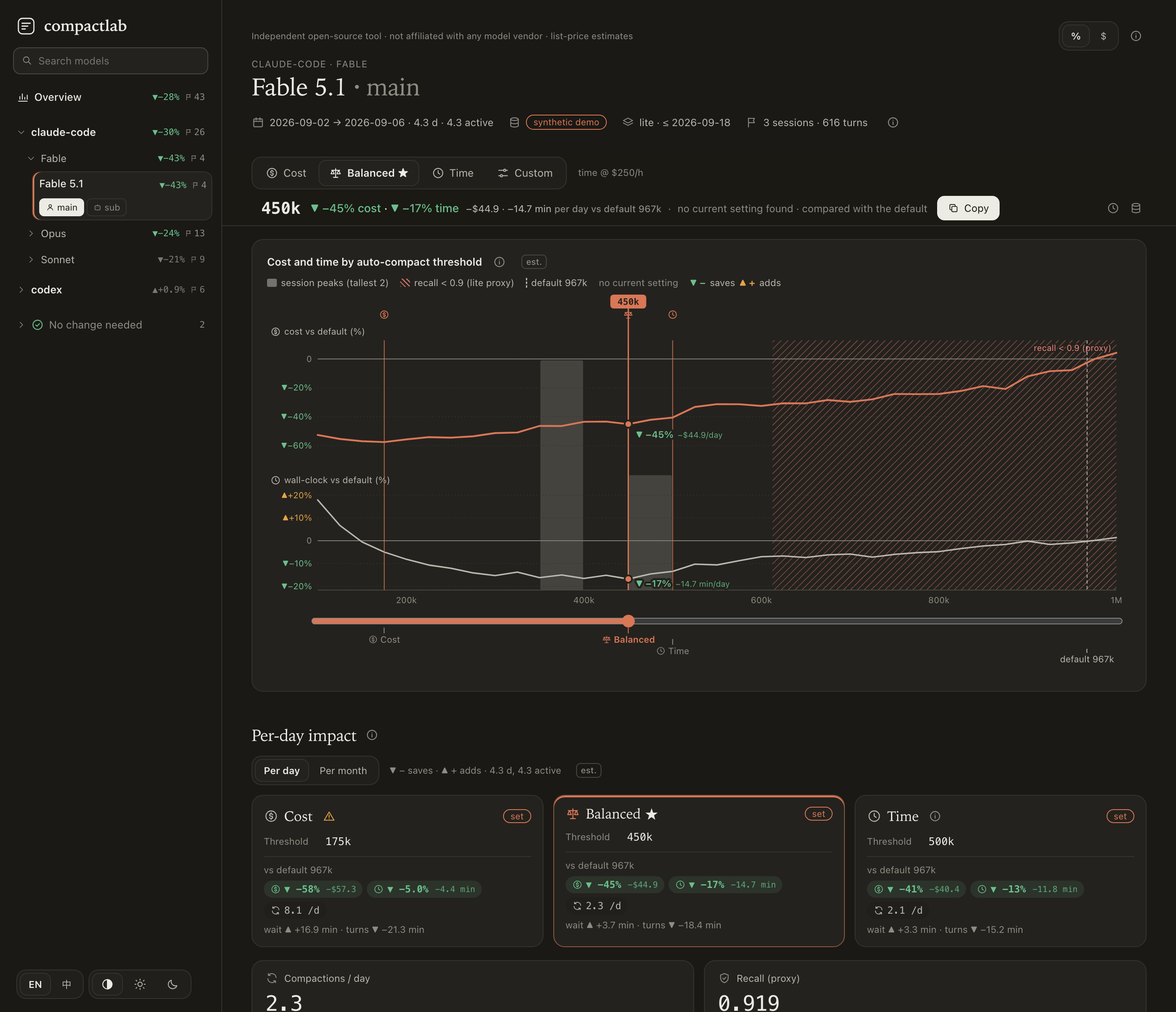
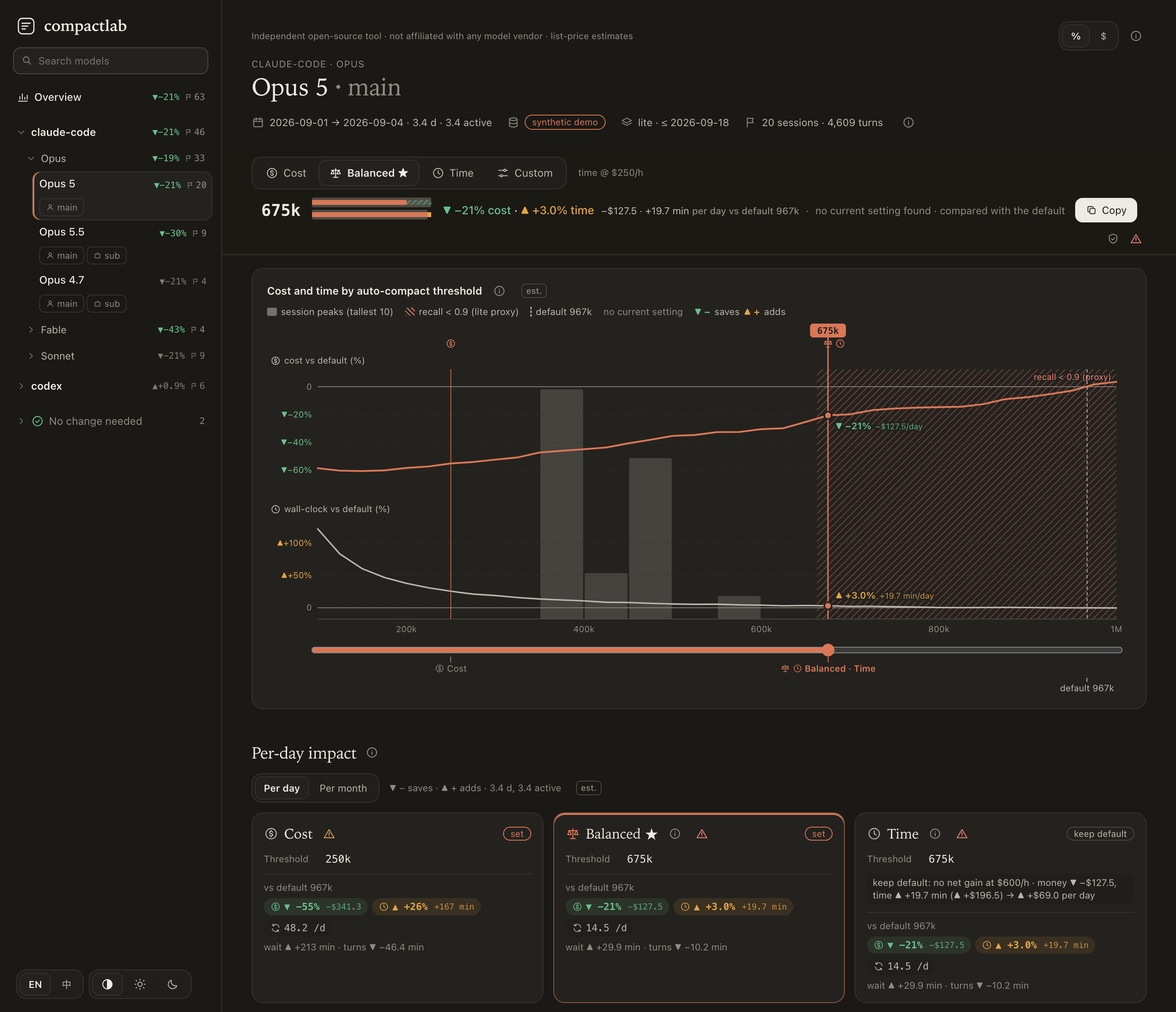
Overview: before / after per model instead of saving-only bars
Grey bar = the default's cost (or wall-clock) per day, accent bar overlaid = with the profile's "set" groups,
green hatch with a bracket = saved, amber overshoot = added; keep-default rows show only the original. Labels lead
with % or $ per the unit toggle plus 'was → now'. Total row from summed amounts, absolute | each-row-100% and sort
toggles (remembered), leaders for short bars, wait vs turn split in the time tooltip, screen-reader sentences.
The model page gets a compact before/after pair next to the answer line. Showcase gains a dominant synthetic model.

diff --git a/src/compactlab/report/template.html b/src/compactlab/report/template.html
@@ -9,14 +9,14 @@
  --serif:ui-serif,"New York","Iowan Old Style","Charter","Palatino Linotype",Georgia,"Songti SC","Noto Serif CJK SC",serif;
  --sans:-apple-system,BlinkMacSystemFont,"SF Pro Text","Segoe UI",system-ui,"PingFang SC","Hiragino Sans GB",sans-serif;
  --mono:ui-monospace,"SF Mono",SFMono-Regular,Menlo,Consolas,monospace;
- --r:14px;--rs:10px;--pk:.07;--ht:.32;--mp:.45
+ --r:14px;--rs:10px;--pk:.07;--ht:.32;--mp:.45;--ba-was:#d9d5ca
 }
 @media (prefers-color-scheme:dark){:root:not([data-theme=light]){
  --bg:#1a1915;--bg2:#211f1b;--card:#24221e;--ink:#ecebe4;--ink2:#bab7ad;--ink3:#8f8c83;--line:#35332d;--line2:#4a4740;
- --acc:#d97757;--acc-soft:#d9775722;--good:#6cc08e;--good-soft:#6cc08e1c;--amber:#e3a548;--amber-soft:#e3a5481c;--bad:#f2867a;--bad-soft:#f2867a1c;--pk:.16;--ht:.6;--mp:.8}}
+ --acc:#d97757;--acc-soft:#d9775722;--good:#6cc08e;--good-soft:#6cc08e1c;--amber:#e3a548;--amber-soft:#e3a5481c;--bad:#f2867a;--bad-soft:#f2867a1c;--pk:.16;--ht:.6;--mp:.8;--ba-was:#4d4a43}}
 :root[data-theme=dark]{
  --bg:#1a1915;--bg2:#211f1b;--card:#24221e;--ink:#ecebe4;--ink2:#bab7ad;--ink3:#8f8c83;--line:#35332d;--line2:#4a4740;
- --acc:#d97757;--acc-soft:#d9775722;--good:#6cc08e;--good-soft:#6cc08e1c;--amber:#e3a548;--amber-soft:#e3a5481c;--bad:#f2867a;--bad-soft:#f2867a1c;--pk:.16;--ht:.6;--mp:.8}
+ --acc:#d97757;--acc-soft:#d9775722;--good:#6cc08e;--good-soft:#6cc08e1c;--amber:#e3a548;--amber-soft:#e3a5481c;--bad:#f2867a;--bad-soft:#f2867a1c;--pk:.16;--ht:.6;--mp:.8;--ba-was:#4d4a43}
 *{box-sizing:border-box}
 html{background:var(--bg)}
 body{margin:0;background:var(--bg);color:var(--ink);font:14px/1.5 var(--sans);-webkit-font-smoothing:antialiased;text-rendering:optimizeLegibility}
@@ -170,6 +170,16 @@ svg.mainc{touch-action:pan-y;user-select:none;-webkit-user-select:none}
 .kpi .v .nw{white-space:nowrap}.kpi .v .sc{display:block;font:500 12.5px/1.4 var(--mono);margin:2px 0 0;opacity:.85}#ovw .kpi .v{font-size:23px}
 .hrow{display:flex;align-items:center;gap:8px;flex-wrap:wrap;margin-bottom:8px}.hrow .indep{margin:0 auto 0 0}
 .ld{font-weight:600}.sc{font-size:.85em;opacity:.8;margin-left:5px;font-weight:400}.chip .sc{margin-left:4px}tspan.sc2{font-weight:400;font-size:10px;opacity:.85}
+.ovctl{display:flex;flex-wrap:wrap;gap:8px 14px;align-items:center;margin-bottom:8px}.ovctl .seg button{font-size:12.5px;padding:3px 10px}
+.olg{display:flex;flex-wrap:wrap;gap:4px 14px;font-size:11.5px;color:var(--ink2);margin:0 0 4px}.olg span{display:inline-flex;align-items:center;gap:5px}
+.olg i{display:inline-block;width:16px;height:9px;border-radius:2px}.olg .lw{background:var(--ba-was)}.olg .ln{background:var(--acc)}
+.olg .ls{background:repeating-linear-gradient(45deg,var(--good) 0 1.4px,var(--good-soft) 1.4px 4px)}.olg .la{background:var(--amber)}
+h3.ovh{margin:14px 0 2px;color:var(--ink2);font-weight:500}
+.baw{fill:var(--ba-was)}.ban{fill:var(--acc)}.baa{fill:var(--amber)}.bash{fill:var(--good-soft)}.bahl{stroke:var(--good);stroke-width:1.4}
+.babr{fill:none;stroke:var(--good);stroke-width:1}.lead{stroke:var(--line2);stroke-dasharray:1 3}.axt{font-size:10px}
+tspan.big{font-size:13px;font-weight:700}.barow{cursor:pointer}.barow:hover .ovbg{fill:var(--bg2)}.barow.tot .ovname{font-weight:600}.barow.keep .ovname{fill:var(--ink3)}
+.sr{position:absolute;width:1px;height:1px;overflow:hidden;clip:rect(0 0 0 0);white-space:nowrap}
+.minib{display:inline-flex;align-items:center;cursor:help}.mini{display:block}
 .indep{font-size:11px;color:var(--ink3);margin-bottom:8px}
 #marks.compact .mk.r1 .tx{display:none}
 .live{display:inline-flex;align-items:center;gap:6px;flex-wrap:wrap}.live .tval{min-width:0;font-size:18px}
@@ -457,7 +467,16 @@ const I={
  noopSub:['Every session peaks below the default auto-compact threshold, so no threshold in range changes cost or time.','每个会话的峰值都低于默认自动压缩阈值,范围内的任何阈值都不会改变成本或时间。'],
  mPeak:['peak','峰值'], zoneL:['auto-compacts here','此区间会自动压缩'],
  kTotUsd:['Δ cost vs default','较默认费用'], kTotMin:['Δ time vs default','较默认耗时'], kToSet:['To change','需要调整'], kNoCh:['No change needed','无需调整'],
- ovChart:['Per-day impact by model','各模型每日影响'], ovHelp:['Estimated money per day against the harness default for the chosen profile if the “set” groups are applied, split into main and subagent runs; right of each bar the minutes per day. Grey rows would keep the default (not counted in the totals). Click a row to open the model.','所选方案相对 harness 默认值的每天费用估算,分为主会话和子 agent;每条右侧是每天分钟数。点击一行打开该模型。'],
+ ovChart:['Before and after, per day','前后对比(每天)'],
+ ovCostT:['Cost per day (list price)','每日费用(按公开标价)'], ovTimeT:['Wall-clock per day (agent minutes)','每日耗时(agent 分钟)'],
+ scL:['Scale','比例'], scAbs:['absolute','绝对值'], scNorm:['each row = 100%','每行 = 100%'], byL:['Sort','排序'], byUsd:['by amount saved','按节省金额'], byPct:['by % saved','按节省比例'],
+ axUsd:['$ per day, shared axis','美元/天,共用坐标'], axMin:['minutes per day, shared axis','分钟/天,共用坐标'], axNorm:['share of the original, each row = 100%','占原值比例,每行 = 100%'],
+ lgWas:['was (default)','原来(默认)'], lgNow:['now (profile)','现在(方案)'], lgSaved:['saved','节省'], lgAdded:['added','增加'],
+ lgLine:['grey = was (default), accent = now, green hatch = saved, amber = added','灰色 = 原来(默认),强调色 = 现在,绿色斜线 = 节省,琥珀色 = 增加'],
+ wasNow:[(a,b)=>'was '+a+' → now '+b,(a,b)=>'原来 '+a+' → 现在 '+b], totalSet:['Total','合计'], totalSub:[n=>n+' “set” models',n=>n+' 个“设置”模型'],
+ tWait:['compaction wait','压缩等待'], tTurn:['turn time','每轮耗时'],
+ srRow:[(n,w,c,v,p,tw,tn)=>n+': was '+w+' per day, now '+c+', '+v+' '+p+' percent; wall-clock was '+tw+', now '+tn,(n,w,c,v,p,tw,tn)=>n+':原来每天 '+w+',现在 '+c+','+v+' '+p+'%;耗时原来 '+tw+',现在 '+tn],
+ srKeep:[(n,w)=>n+': keep default, '+w+' per day',(n,w)=>n+':保持默认,每天 '+w], ovHelp:['Per model: the grey bar is the cost (or wall-clock) per day with the harness default, the accent bar the same with the chosen profile applied to its “set” groups; the green hatch between them is the saving, amber an addition. “Keep default” models show only the grey bar. The total sums the “set” models. Absolute shares one axis; “each row = 100%” makes every grey bar the same length. List-price estimates; hover a row for main / subagent and, for time, wait vs turn time.','所选方案相对 harness 默认值的每天费用估算,分为主会话和子 agent;每条右侧是每天分钟数。点击一行打开该模型。'],
  ovTable:['Recommended settings','推荐设置'], cModel:['model','模型'], cRole:['role','角色'], cDef:['default','默认'], cUsd:['Δ $ / day','Δ 美元 / 天'], cMin:['Δ min / day','Δ 分钟 / 天'], cUsdP:['Δ cost %','Δ 费用 %'], cMinP:['Δ time %','Δ 耗时 %'], sortBy:['Sort by','排序:'],
  kTotPct:['% of the whole: the summed change of the “set” groups divided by the summed default cost (or wall-clock) per day of all groups in this history; group percents are never averaged.','占全部的百分比:“设置”分组的变化之和,除以本段历史中所有分组默认每日费用(或耗时)之和;不对分组百分比取平均。'],
  tWin:['Window cost (total)','窗口总成本'], tDUsd:['Δ cost vs default','较默认费用'], tDMin:['Δ time vs default','较默认耗时'],
@@ -479,7 +498,7 @@ const I={
  hSessG:[x=>'Sessions · '+x,x=>'会话 · '+x], hSessAll:['All sessions','全部会话'],
  ovRange:[(a,b,n)=>a+' → '+b+' · '+n+' models',(a,b,n)=>a+' → '+b+' · '+n+' 个模型']
 };
-const S={gi:0,gear:'balanced',T:null,vot:100,lang:'en',sid:null,basis:'per_day',theme:'auto',view:'group',op:'balanced',fold:{},unit:'pct',ovSort:null};
+const S={gi:0,gear:'balanced',T:null,vot:100,lang:'en',sid:null,basis:'per_day',theme:'auto',view:'group',op:'balanced',fold:{},unit:'pct',ovSort:null,ovScale:'abs',ovBy:'usd'};
 let sortK='peak',asc=false;
 const PROF=['cost','balanced','time'],PICON={cost:'coin',balanced:'scale',time:'clock',custom:'sliders'};
 // a broken guardrail is red, a warning amber (cost below a quarter of the window, more wait than the cap),
@@ -490,6 +509,7 @@ const flagKind=f=>VIOL(f)?'bad':NOTE(f)?'':'low';
 S.lang=/^zh/i.test(navigator.language||'')?'zh':'en';
 try{const l=localStorage.getItem('compactlab.lang');if(l==='en'||l==='zh')S.lang=l;const th=localStorage.getItem('compactlab.theme');if(th)S.theme=th;
   const un=localStorage.getItem('compactlab.unit');if(un==='pct'||un==='usd')S.unit=un;
+  const sc=localStorage.getItem('compactlab.ovScale');if(sc==='abs'||sc==='norm')S.ovScale=sc;const ob=localStorage.getItem('compactlab.ovBy');if(ob==='usd'||ob==='pct')S.ovBy=ob;
   const fo=JSON.parse(localStorage.getItem('compactlab.fold')||'{}');if(fo&&typeof fo==='object')S.fold=fo}catch(e){}
 function applyTheme(){if(S.theme==='auto')delete document.documentElement.dataset.theme;else document.documentElement.dataset.theme=S.theme}
 applyTheme();
@@ -660,7 +680,7 @@ document.addEventListener('click',e=>{if(e.target.closest&&e.target.closest('#re
 function buildBar(){const g=G();
   $('#bar').innerHTML=`<div class="gearrow"><div class="seg" id="gears" role="group" aria-label="${t('gear')}">${[...PROF,'custom'].map(k=>`<button data-gear="${k}" aria-pressed="false" aria-label="${t(k)}${k===g.profile?' ★':''}">${ic(PICON[k])}<span class="gt">${t(k)}${k===g.profile?'&nbsp;★':''}</span></button>`).join('')}</div>
   <span class="vot" id="vot"></span></div>
-  <div class="ansrow"><b class="tval" id="tval" aria-live="polite"></b><span class="ans" id="ans"></span><button type="button" class="btn sm" id="cpOne">${ic('copy')}<span>${t('cpCopy')}</span></button><span id="flags"></span></div>`;
+  <div class="ansrow"><b class="tval" id="tval" aria-live="polite"></b><span id="mini"></span><span class="ans" id="ans"></span><button type="button" class="btn sm" id="cpOne">${ic('copy')}<span>${t('cpCopy')}</span></button><span id="flags"></span></div>`;
   document.querySelectorAll('#gears button').forEach(b=>b.onclick=()=>setGear(b.dataset.gear));
   $('#cpOne').onclick=async()=>{const b=$('#cpOne'),ok=await copyStr(snippet(G(),S.T));b.querySelector('span').textContent=ok?t('cpCopied'):t('cpFail');
     clearTimeout(b.tm);b.tm=setTimeout(()=>{b.querySelector('span').textContent=t('cpCopy')},2200)}}
@@ -800,6 +820,7 @@ function controls(){const g=G(),i=g.grid.indexOf(S.T),r=g.recommendation,p=pt(g,
   const dcp=im.compactions.per_day-im.ref_compactions.per_day;
   const pd=pctAt(g,S.T,d),pcu=g.current?pctAt(g,S.T,g.current):null;
   $('#ans').innerHTML=answer(im.usd.per_day,im.minutes.per_day,t('vsDefL',def),pd.c,pd.t)+(icur?'<span class="ans2">'+answer(icur.usd.per_day,icur.minutes.per_day,t('vsCurL',fk(g.current.configured??g.current.threshold)),pcu.c,pcu.t)+'</span>':'<span class="ans2 cap">'+esc(t('noCur'))+'</span>');
+  $('#mini').innerHTML=miniBA(g,im);
   const cb=$('#cpOne'),keepIt=action(g,S.T,S.vot)!=='aSet';if(keepIt)$('#ans').insertAdjacentHTML('beforeend','<span class="ans2 kw">'+esc(keepWhy(g,S.T,S.vot))+'</span>');cb.disabled=keepIt;cb.dataset.tip=keepIt?t('cpKeep'):t('cpOneTip',snippet(g,S.T));cb.setAttribute('aria-label',t('cpCopy')+': '+(keepIt?t('cpKeep'):snippet(g,S.T)));
   $('#kpis').innerHTML=`
    <div class="kpi"><div class="kh">${ic('refresh')}<span>${t('kComp')}</span></div><div class="v">${im.compactions.per_day.toFixed(1)}</div>
@@ -1020,34 +1041,28 @@ function renderOverview(){overviewHeader();const box=$('#ovw'),k=S.op;
   box.innerHTML=`<div class="ovbar"><div class="seg" role="group" aria-label="${t('gear')}">${PROF.map(p=>`<button data-op="${p}" aria-pressed="${p===k}" aria-label="${t(p)}">${ic(PICON[p])}<span class="gt">${t(p)}</span></button>`).join('')}</div><span class="vot">${esc(t('votS',D.groups[0]?D.groups[0].profiles[k].value_of_time:0))}</span></div>
    <div class="kpis">${kpi('coin','kTotUsd','<span class="nw">'+dual(tpu,fsv(tu)+t('uDay'),fsn(tu)+t('uDay'))+'</span>',tone(tu),esc(t('kTotSub',cnt('set')))+' <span class="est">'+t('est')+'</span>'+ib(t('kTotPct')))+kpi('clock','kTotMin','<span class="nw">'+dual(tpm,fmv(tm)+t('uDay'),fmn(tm)+t('uDay'))+'</span>',tone(tm),esc(t('kTotSub',cnt('set'))))+
      kpi('sliders','kToSet',String(cnt('set')),'',esc(t('mUnit')))+kpi('scale','kKeep',String(cnt('keep')),'',esc(t('mUnit')))+kpi('check','kNoCh',String(cnt('noop')),'',esc(t('mUnit')))}</div>
-   <h2>${t('ovChart')}${ib(t('ovHelp'))}</h2><div class="card fig" id="fOv"></div>
+   <h2>${t('ovChart')}${ib(t('ovHelp'))}</h2><div class="card fig" id="fOv">
+     <div class="ovctl"><div class="seg" role="group" aria-label="${t('scL')}">${[['abs','scAbs'],['norm','scNorm']].map(([k_,l])=>`<button data-ovs="${k_}" aria-pressed="${S.ovScale===k_}">${t(l)}</button>`).join('')}</div>
+       <div class="seg" role="group" aria-label="${t('byL')}">${[['usd','byUsd'],['pct','byPct']].map(([k_,l])=>`<button data-ovb="${k_}" aria-pressed="${S.ovBy===k_}">${t(l)}</button>`).join('')}</div></div>
+     ${legendBA()}<h3 class="ovh">${ic('coin')}${t('ovCostT')}</h3><div id="ovC"></div><h3 class="ovh">${ic('clock')}${t('ovTimeT')}</h3><div id="ovM"></div><ul class="sr" id="ovSR"></ul></div>
    <h2>${t('ovTable')}</h2><div class="card scroll" id="ovT"></div>`;
   box.querySelectorAll('[data-op]').forEach(b=>b.onclick=()=>{S.op=b.dataset.op;S.tree=null;keep(()=>{renderOverview();tree()})});
-  // horizontal bars: money saved per day to the right of zero, added to the left (amber); "keep default" models grey
-  const rows=models.filter(m=>m.st!=='noop').sort((a,b)=>({set:0,keep:1}[a.st]-{set:0,keep:1}[b.st])||b.w-a.w);
-  const ob=$('#fOv'),W=boxW(ob),wide=W>=600,rowH=wide?34:50,L=wide?190:8,R=wide?270:8,H=Math.max(rowH*rows.length+30,80);
-  const svg=el('svg',{viewBox:`0 0 ${W} ${H}`,role:'img','aria-label':t('ovChart')});
-  const byPct=S.unit==='pct'&&rows.every(m=>m.den>0);
-  const val=(m,g)=>(m.st==='set'?-usdOf(g,k)*(isSet(g,k)?1:0):-usdOf(g,k))/(byPct?m.den/100:1);
-  const sv=rows.map(m=>m.gs.map(i=>val(m,D.groups[i])));const pos=sv.map(v=>v.filter(x=>x>0).reduce((a,b)=>a+b,0)),neg=sv.map(v=>v.filter(x=>x<0).reduce((a,b)=>a+b,0));
-  const lo=Math.min(0,...neg),hi=Math.max(0,...pos,1e-9),X=v=>L+(v-lo)/((hi-lo)||1)*(W-L-R);
-  svg.append(el('line',{x1:X(0),x2:X(0),y1:6,y2:H-22,class:'zero'}));
-  for(const v of ticksN(lo,hi,3))if(v>=lo&&v<=hi)svg.append(el('text',{x:X(v),y:H-6,'text-anchor':'middle',class:v>0?'tk good':v<0?'tk warn':'tk'},v===0?'0':(v>0?'▼−':'▲+')+(byPct?(+Math.abs(v).toFixed(1))+'%':'$'+(+Math.abs(v).toFixed(1)))));
-  rows.forEach((m,r)=>{const y=10+r*rowH,gr=el('g',{class:'ovrow'+(m.st==='keep'?' keep':''),'data-tab':m.gs[0]});gr.append(el('rect',{x:0,y:y-4,width:W,height:rowH,rx:6,class:'ovbg'}));
-    const by=wide?y+2:y+22;gr.append(el('text',{x:8,y:y+11,class:'ovname'},label(m.id)));if(wide)gr.append(el('text',{x:8,y:y+24,class:'ovsub'},m.h+' · '+m.gs.map(i=>roleS(D.groups[i].role)).join(' + ')));
-    let ap=0,an=0;m.gs.forEach((i,j)=>{const v=sv[r][j];if(Math.abs(v)<1e-9)return;const a=v>0?ap:an+v;if(v>0)ap+=v;else an+=v;
-      const x=X(a),w=Math.max(X(a+Math.abs(v))-x,1.5),role=D.groups[i].role;gr.append(el('rect',{x,y:by,width:w,height:18,rx:3,class:m.st==='keep'?'smk':v<0?'sma':role==='main'?'sm1':'sm2'}));
-      if(w>44)gr.append(el('text',{x:x+6,y:by+13,class:'seglab'},roleS(role)))});
-    // the label: money and minutes each in their own colour; "keep default" rows say so, greyed
-    const tx=wide?el('text',{x:Math.max(X(ap),X(0))+8,y:y+15,class:'dl b'}):el('text',{x:W-8,y:y+11,'text-anchor':'end',class:'dl b'});
-    const pu=ratio(m.usd,m.den),pm=ratio(m.min,m.mden),lead=(pv,a,b)=>byPct&&pv!=null?[fpct(pv),a]:[b,fpn(pv)];
-    if(m.st==='keep'){const u=m.keep.reduce((a,g)=>a+usdOf(g,k),0),[l1,s1]=lead(ratio(u,m.den),fsn(u)+t('uDay'),fsv(u)+t('uDay'));tx.append(el('tspan',{class:'mute'},t('aKeep')+' · '+l1+' '),el('tspan',{class:'mute sc2'},s1))}
-    else{const [l1,s1]=lead(pu,fsn(m.usd)+t('uDay'),fsv(m.usd)+t('uDay')),[l2,s2]=lead(pm,fmn(m.min),fmv(m.min));
-      tx.append(el('tspan',{class:tone(m.usd)},l1+' '),el('tspan',{class:tone(m.usd)+' sc2'},s1),el('tspan',{class:'mute'},' · '),el('tspan',{class:tone(m.min)},l2+' '),el('tspan',{class:tone(m.min)+' sc2'},s2))}
-    gr.append(tx);
-    gr.addEventListener('pointermove',e=>showTip('<b>'+esc(label(m.id))+'</b>'+m.gs.map(i=>{const g=D.groups[i];return tipRow(roleL(g.role),g.no_action_needed?t('noChange'):fsv(usdOf(g,k))+' · '+fmv(minOf(g,k))+(isSet(g,k)?'':' · '+t('aKeep')))}).join(''),e.clientX,e.clientY));
-    gr.addEventListener('pointerleave',hideTip);gr.addEventListener('click',()=>pick(m.gs[0]));svg.append(gr)});
-  ob.append(svg);
+  box.querySelectorAll('[data-ovs]').forEach(b=>b.onclick=()=>{S.ovScale=b.dataset.ovs;try{localStorage.setItem('compactlab.ovScale',S.ovScale)}catch(e){}keep(renderOverview)});
+  box.querySelectorAll('[data-ovb]').forEach(b=>b.onclick=()=>{S.ovBy=b.dataset.ovb;try{localStorage.setItem('compactlab.ovBy',S.ovBy)}catch(e){}keep(renderOverview)});
+  // before / after per model: was = the default's summed per-day amount, now = was + the change of its "set" groups
+  const rows=models.filter(m=>m.st!=='noop').map(m=>{const G_=m.gs.map(i=>D.groups[i]),sg=G_.filter(g=>isSet(g,k)),im=sg.map(g=>impOf(g,k,'vs_default')).filter(Boolean);
+    return {m,name:label(m.id),sub:m.h+' · '+m.gs.map(i=>roleS(D.groups[i].role)).join(' + '),keep:m.st==='keep',gi:m.gs[0],
+      c:{was:m.den,now:m.den+m.usd},t:{was:m.mden,now:m.mden+m.min},
+      wait:im.reduce((a,x)=>a+x.wait_minutes.per_day,0),turn:im.reduce((a,x)=>a-x.turn_gain_minutes.per_day,0),
+      roles:m.gs.map(i=>{const g=D.groups[i];return [roleL(g.role),g.no_action_needed?t('noChange'):fsv(usdOf(g,k))+t('uDay')+(isSet(g,k)?'':' · '+t('aKeep'))]})}});
+  const sv=r=>r.keep?Infinity:S.ovBy==='pct'?(ratio(r.c.now-r.c.was,r.c.was)??0):r.c.now-r.c.was;
+  rows.sort((a,b)=>(a.keep-b.keep)||sv(a)-sv(b)||b.c.was-a.c.was);
+  const setR=rows.filter(r=>!r.keep),tot={name:t('totalSet'),sub:t('totalSub',setR.length),total:true,keep:false,gi:null,
+    c:{was:setR.reduce((a,r)=>a+r.c.was,0),now:setR.reduce((a,r)=>a+r.c.now,0)},t:{was:setR.reduce((a,r)=>a+r.t.was,0),now:setR.reduce((a,r)=>a+r.t.now,0)},
+    wait:setR.reduce((a,r)=>a+r.wait,0),turn:setR.reduce((a,r)=>a+r.turn,0),roles:[]};
+  const items=(setR.length?[tot]:[]).concat(rows);
+  beforeAfter($('#ovC'),items,'c');beforeAfter($('#ovM'),items,'t');
+  $('#ovSR').innerHTML=items.map(r=>'<li>'+esc(srRow(r))+'</li>').join('');
   // roll-up table, every group: set first, then keep default, then no change
   const rk=g=>g.no_action_needed?2:isSet(g,k)?0:1;
   const pcOf=g=>g.no_action_needed?{c:null,t:null}:pctAt(g,g.profiles[k].threshold,g.default);
@@ -1058,6 +1073,58 @@ function renderOverview(){overviewHeader();const box=$('#ovw'),k=S.op;
   $('#ovT').querySelectorAll('[data-tab]').forEach(b=>b.onclick=()=>pick(+b.dataset.tab));
   $('#ovT').querySelectorAll('[data-sort]').forEach(b=>b.onclick=()=>{const c=b.dataset.sort;S.ovSort=S.ovSort&&S.ovSort.k===c?{k:c,asc:!S.ovSort.asc}:{k:c,asc:true};keep(renderOverview)});  // first click: A→Z, or the biggest saving first
   copyPanel();renderS()}
+// ---------- before / after bars: grey = was (default), accent = now (profile), green hatch = saved, amber = added ----------
+const fabs=(v,kind)=>kind==='c'?'$'+(v>=100?Math.round(v).toLocaleString('en-US'):v.toFixed(1)):(v>=100?Math.round(v):v.toFixed(1))+' min';
+function legendBA(){return `<div class="olg"><span><i class="lw"></i>${t('lgWas')}</span><span><i class="ln"></i>${t('lgNow')}</span><span><i class="ls"></i>${t('lgSaved')}</span><span><i class="la"></i>${t('lgAdded')}</span></div>`}
+function baLabel(o,kind){const d=o.now-o.was,pv=ratio(d,o.was),p=S.unit==='pct'&&pv!=null;
+  return {lead:p?fpct(pv):(kind==='c'?fsv(d)+t('uDay'):fmv(d)+t('uDay')),sec:p?(kind==='c'?fsn(d)+t('uDay'):fmn(d)+t('uDay')):fpn(pv),tone:tone(kind==='c'?d:d),wn:t('wasNow',fabs(o.was,kind),fabs(o.now,kind))}}
+function srRow(r){const d=r.c.now-r.c.was,pv=ratio(d,r.c.was);
+  return r.keep?t('srKeep',r.name,fabs(r.c.was,'c')):t('srRow',r.name,fabs(r.c.was,'c'),fabs(r.c.now,'c'),d<0?t('saves'):t('adds'),pv==null?'–':pabs(pv),fabs(r.t.was,'t'),fabs(r.t.now,'t'))}
+function hatchDef(svg,id){const defs=el('defs'),p=el('pattern',{id,width:5,height:5,patternUnits:'userSpaceOnUse',patternTransform:'rotate(45)'});
+  p.append(el('rect',{width:5,height:5,class:'bash'}),el('line',{x1:0,y1:0,x2:0,y2:5,class:'bahl'}));defs.append(p);svg.append(defs)}
+function beforeAfter(box,items,kind){box.innerHTML='';if(!items.length)return;
+  const W=boxW(box.parentElement,36),wide=W>=600,rowH=wide?44:62,L=wide?180:8,R=wide?300:8,T=4,norm=S.ovScale==='norm';
+  const v=r=>r[kind],pw=W-L-R,mx=Math.max(...items.map(r=>Math.max(v(r).was,v(r).now)),1e-9);
+  // absolute: one shared axis; normalised: every row's "was" is the same length (80% of the plot, room for amber)
+  const len=(r,x)=>norm?(v(r).was>0?x/v(r).was:0)*pw*.8:x/mx*pw;
+  const H=T+items.length*rowH+30,svg=el('svg',{viewBox:`0 0 ${W} ${H}`,role:'img','aria-label':t(kind==='c'?'ovCostT':'ovTimeT')});svg.classList.add('bac');
+  const hid='hs-'+kind;hatchDef(svg,hid);
+  const ticks=norm?[0,.5,1].map(f=>[f*pw*.8,Math.round(f*100)+'%']):ticksN(0,mx,Math.max(3,Math.floor(pw/110))).filter(x=>x<=mx).map(x=>[x/mx*pw,kind==='c'?'$'+(+x.toFixed(1)):(+x.toFixed(1))+'']);
+  for(const [x,l] of ticks){svg.append(el('line',{x1:L+x,x2:L+x,y1:T,y2:H-26,class:'grid'}));svg.append(el('text',{x:L+x,y:H-12,'text-anchor':'middle'},l))}
+  svg.append(el('text',{x:L+pw,y:H-1,'text-anchor':'end',class:'axt'},t(norm?'axNorm':kind==='c'?'axUsd':'axMin')));
+  items.forEach((r,n)=>{const y=T+n*rowH,o=v(r),gr=el('g',{class:'barow'+(r.total?' tot':'')+(r.keep?' keep':'')});if(r.gi!=null)gr.dataset.tab=r.gi;
+    gr.append(el('rect',{x:0,y,width:W,height:rowH-2,rx:6,class:'ovbg'}));
+    if(r.total)svg.append(el('line',{x1:0,x2:W,y1:y+rowH-1,y2:y+rowH-1,class:'ax'}));
+    const by=wide?y+9:y+24,ww=Math.max(len(r,o.was),3),nw=r.keep?0:Math.max(len(r,o.now),o.now>0?2:0);
+    gr.append(el('text',{x:8,y:wide?y+17:y+14,class:'ovname'+(r.total?' b':'')},r.name));if(wide)gr.append(el('text',{x:8,y:y+31,class:'ovsub'},r.sub));
+    gr.append(el('rect',{x:L,y:by,width:ww,height:22,rx:3,class:'baw'}));
+    if(!r.keep){gr.append(el('rect',{x:L,y:by+5,width:nw,height:12,rx:2,class:'ban'}));
+      if(nw<ww-.5){gr.append(el('rect',{x:L+nw,y:by+5,width:ww-nw,height:12,fill:`url(#${hid})`}));
+        gr.append(el('path',{d:`M${L+nw},${by-2}v-3h${ww-nw}v3`,class:'babr'}))}   // bracket over the saving
+      else if(nw>ww+.5)gr.append(el('rect',{x:L+ww,y:by+5,width:nw-ww,height:12,rx:2,class:'baa'}))}
+    // labels: a fixed column on the right (a leader joins tiny bars to it); on a phone, above and below the bar
+    const lb=baLabel(o,kind),end=L+Math.max(ww,nw);
+    if(wide){const lx=L+pw+14;if(lx-end>10)gr.append(el('line',{x1:end+4,x2:lx-4,y1:by+11,y2:by+11,class:'lead'}));
+      const tx=el('text',{x:lx,y:y+17,class:'dl b'});
+      if(r.keep)tx.append(el('tspan',{class:'mute'},t('aKeep')+' · '+fabs(o.was,kind)+t('uDay')));
+      else tx.append(el('tspan',{class:'big '+lb.tone},lb.lead+' '),el('tspan',{class:lb.tone+' sc2'},lb.sec));
+      gr.append(tx);if(!r.keep)gr.append(el('text',{x:lx,y:y+32,class:'ovsub'},lb.wn))}
+    else{const tx=el('text',{x:W-8,y:y+14,'text-anchor':'end',class:'dl b'});
+      if(r.keep)tx.append(el('tspan',{class:'mute'},t('aKeep')));else tx.append(el('tspan',{class:'big '+lb.tone},lb.lead+' '),el('tspan',{class:lb.tone+' sc2'},lb.sec));
+      gr.append(tx);gr.append(el('text',{x:8,y:y+58,class:'ovsub'},r.keep?fabs(o.was,kind)+t('uDay'):lb.wn))}
+    const tip=()=>'<b>'+esc(r.name)+'</b>'+tipRow(t('lgWas'),fabs(o.was,kind)+t('uDay'))+(r.keep?tipRow(t('aKeep'),''):tipRow(t('lgNow'),fabs(o.now,kind)+t('uDay'))+tipRow(o.now<=o.was?t('lgSaved'):t('lgAdded'),fpct(ratio(o.now-o.was,o.was))+' · '+(kind==='c'?fsn(o.now-o.was):fmn(o.now-o.was))+t('uDay')))+
+      (kind==='t'&&!r.keep?tipRow(t('tWait'),fmv(r.wait)+t('uDay'))+tipRow(t('tTurn'),fmv(r.turn)+t('uDay')):'')+r.roles.map(([a,b])=>tipRow(a,b)).join('');
+    gr.addEventListener('pointermove',e=>showTip(tip(),e.clientX,e.clientY));gr.addEventListener('pointerleave',hideTip);
+    if(r.gi!=null)gr.addEventListener('click',()=>pick(r.gi));svg.append(gr)});
+  box.append(svg)}
+// compact pair on the model page: cost and time at the cursor against the default, in the same visual language
+function miniBA(g,im){const rows=[['c',defUsd(g),defUsd(g)+im.usd.per_day],['t',defMin(g),defMin(g)+im.minutes.per_day]],W=150,H=30,svg=el('svg',{viewBox:`0 0 ${W} ${H}`,width:W,height:H,class:'mini'});
+  hatchDef(svg,'hs-mini');const txt=[];
+  rows.forEach(([kind,was,now],n)=>{const mx=Math.max(was,now,1e-9),y=2+n*15,ww=Math.max(was/mx*(W-4),2),nw=Math.max(now/mx*(W-4),now>0?1:0);
+    svg.append(el('rect',{x:2,y,width:ww,height:12,rx:2,class:'baw'}),el('rect',{x:2,y:y+3,width:nw,height:6,rx:1,class:'ban'}));
+    if(nw<ww)svg.append(el('rect',{x:2+nw,y:y+3,width:ww-nw,height:6,fill:'url(#hs-mini)'}));else if(nw>ww)svg.append(el('rect',{x:2+ww,y:y+3,width:nw-ww,height:6,class:'baa'}));
+    txt.push(t(kind==='c'?'wCost':'wTime')+': '+t('wasNow',fabs(was,kind),fabs(now,kind))+' ('+fpct(ratio(now-was,was))+')')});
+  const s_=txt.join(' · ')+' — '+t('lgLine');svg.setAttribute('role','img');svg.setAttribute('aria-label',s_);return `<span class="minib" tabindex="0" data-tip="${esc(s_)}">${svg.outerHTML}</span>`}
 // update(): everything that depends on the selected threshold/profile; render(): full rebuild (group or language change)
 function update(){if(S.view!=='group')return;controls();impactPanel();comparison();pareto();costs();timeChart();hist();sessChart();moveCursor();hideTip()}
 function render(){keep(()=>{if(S.view==='overview'){renderOverview();return}header();renderS();

diff --git a/tests/test_report_dom.py b/tests/test_report_dom.py
@@ -76,6 +76,7 @@ CHECK = """
       ok(!!g.current===!document.querySelector('#ans .ans2.cap'),'current-setting note');
       ok(!!g.current===!!document.querySelector('#fMain .mcur'),'current mark')}
     ok(!document.querySelector('#kpis .kh .ic use[href="#i-coin"]'),'money KPI repeats the cards');
+    {const mb=document.querySelector('#mini .minib');ok(mb&&/was .* now /.test(mb.dataset.tip)&&mb.querySelector('svg[aria-label]'),'before/after pair on the model page')}
     // a warning triangle in the bar only for the selected profile's guardrail flags
     const want=g.profiles.balanced.flags.filter(f=>!NOTE(f)).length,warn=document.querySelectorAll('#flags .ib.low,#flags .ib.bad').length;
     ok(warn===want,'bar shows '+warn+' warnings for flags '+g.profiles.balanced.flags.join(','));
@@ -143,7 +144,24 @@ CHECK = """
     document.querySelector('#tree [data-ov]').click();
     ok(S.view==='overview'&&vis(document.getElementById('fOv'))&&!vis(document.getElementById('fMain')),'overview not shown');
     const nAct=new Set(D.groups.filter(x=>!x.no_action_needed).map(x=>x.harness+'|'+x.model)).size;
-    ok(document.querySelectorAll('#fOv .ovrow').length===nAct,'overview bars '+document.querySelectorAll('#fOv .ovrow').length+' != '+nAct);
+    // before / after: one row per model that is not "no change", plus a total row when any model is "set", in both panels
+    const nSet=new Set(D.groups.filter(x=>isSet(x)).map(x=>x.harness+'|'+x.model)).size,nRows=nAct+(nSet?1:0);
+    for(const id of ['ovC','ovM'])ok(document.querySelectorAll('#'+id+' .barow').length===nRows,id+' rows '+document.querySelectorAll('#'+id+' .barow').length+' != '+nRows);
+    ok(document.querySelectorAll('#ovSR li').length===nRows&&/per day/.test(document.getElementById('ovSR').textContent),'screen-reader rows');
+    // keep-default rows draw only the original bar
+    document.querySelectorAll('#ovC .barow.keep').forEach(r=>ok(!r.querySelector('.ban'),'keep-default row has a "now" bar'));
+    // the total sums the "set" models' was and now (never averaged percents)
+    if(nSet){const ms={};D.groups.forEach(x=>{const key=x.harness+'|'+x.model;(ms[key]=ms[key]||[]).push(x)});
+      const sets=Object.values(ms).filter(gs=>gs.some(x=>isSet(x))),was=sets.flat().reduce((a,x)=>a+defUsd(x),0),now=was+sets.flat().reduce((a,x)=>a+setUsd(x),0);
+      const tl=document.querySelector('#ovC .barow.tot tspan.big').textContent.trim();const want=S.unit==='pct'?fpct((now-was)/was):fsv(now-was)+t('uDay');ok(tl===want,'total row '+tl+' != '+want)}
+    // a model that gets dearer sticks out past its original bar in amber
+    {const gi=D.groups.findIndex(x=>isSet(x));if(gi>=0){const im=impOf(D.groups[gi],S.op,'vs_default'),keepU=im.usd.per_day;im.usd.per_day=Math.abs(keepU)+5;
+      renderOverview();ok(document.querySelector('#ovC .baa'),'no amber overshoot for an added cost');im.usd.per_day=keepU;renderOverview()}}
+    // each row = 100%: every model's original bar has the same length; the choice is remembered
+    document.querySelector('[data-ovs=norm]').click();
+    {const ws=[...document.querySelectorAll('#ovC .barow:not(.tot) .baw')].map(r=>+r.getAttribute('width'));ok(S.ovScale==='norm'&&ws.every(w=>Math.abs(w-ws[0])<.5),'normalised widths '+ws.join(','));
+      let sv=null;try{sv=localStorage.getItem('compactlab.ovScale')}catch(e){}ok(sv==null||sv==='norm','scale not remembered')}
+    document.querySelector('[data-ovs=abs]').click();
     ok(document.querySelectorAll('#ovT tr').length===D.groups.length+1,'roll-up rows');
     // the headline total counts only groups whose action is "set"
     // totals: summed amounts over summed defaults, never averaged percents (the $ unit is still on from above)
@@ -157,7 +175,7 @@ CHECK = """
       const sb=document.querySelector('#ovT [data-sort=cUsd]');sb.click();
       const vals=[...document.querySelectorAll('#ovT tr')].slice(1).map(r=>D.groups[+r.querySelector('[data-tab]').dataset.tab]).filter(x=>!x.no_action_needed).map(x=>pctAt(x,x.profiles[S.op].threshold,x.default).c);
       ok(vals.every((v,i)=>!i||v>=vals[i-1]-1e-12),'table not sorted by cost %');S.ovSort=null;keep(renderOverview);
-      ok(D.groups.some(x=>!x.no_action_needed&&!isSet(x))?document.querySelector('#fOv .ovrow.keep'):true,'keep-default rows not greyed')}
+      ok(D.groups.some(x=>!x.no_action_needed&&!isSet(x))?document.querySelector('#ovC .barow.keep'):true,'keep-default rows not greyed')}
     ok(/^All sessions/.test(document.getElementById('hSess').textContent),'overview sessions title');
     // a "keep default" row says which rule kept it
     D.groups.forEach((x,i)=>{const P=x.profiles[S.op];if(action(x,P.threshold,P.value_of_time)!=='aKeep')return;

diff --git a/scripts/make_assets.py b/scripts/make_assets.py
@@ -96,6 +96,9 @@ def showcase(tmp: Path) -> dict:
     _extra_project(root, "h", ("claude-haiku-5-5-20260915",), 4, 3, 21, main_lines=90)
     _extra_project(root, "o", ("claude-opus-4-7", "claude-fable-5-1"), 6, 2, 31)
     _extra_project(root, "f", ("claude-sonnet-5",), 0, 4, 41)
+    # one dominant model: five projects on the same four days (about five heavy sessions a day, several $100/day)
+    for j, tag in enumerate("pqruv"):
+        _extra_project(root, tag, ("claude-opus-5",), 4, 0, 61 + j)
     synth.write_codex(tmp / "codex", n=6)
     ss = list(get_adapter("claude-code")(root).sessions()) + list(get_adapter("codex")(tmp / "codex").sessions())
     # synthetic "current" settings on two models, so the current-setting path is shown

diff --git a/docs/REPORT_UI.md b/docs/REPORT_UI.md
@@ -8,7 +8,7 @@ Screenshots (synthetic showcase data from `scripts/make_assets.py`, never real h
 `docs/assets/report.png` (1440, light), `report-dark.png`, `report-overview.png`, `report-noop.png`,
 `report-mobile.png` and `report-mobile-dark.png` (390), plus the sidebar at 35 models over three harnesses
 (`report-tree.png` folded, `report-tree-search.png` with a search; a UI-only fixture of copied groups). The
-showcase has synthetic "current" settings on Opus 5.5 (525k) and Sonnet 5.5 (625k) so the current-setting path
+showcase has one dominant synthetic model (Opus 5, about $620/day) among small ones, and synthetic "current" settings on Opus 5.5 (525k) and Sonnet 5.5 (625k) so the current-setting path
 shows.
 
 ## Landing state
@@ -119,9 +119,18 @@ status icons.
 - Profile switch for the summary profile (also used for the sidebar badges and sorting).
 - KPIs: money per day and minutes per day if the "set" models are applied (keep-default groups are not counted),
   then models to change, models that keep the default and models needing no change (all in models).
-- Horizontal bars per model: money saved per day to the right of zero (adds in amber to the left), stacked main /
-  subagent; minutes per day next to it, each figure in its own colour. Keep-default models are grey and say so.
-  Rows open the model.
+- Before / after, per day: two panels, cost (list price) and wall-clock (agent minutes), one row per model and a
+  total row on top (summed was vs summed now of the "set" models). Grey bar = was (the harness default's per-day
+  amount, all the model's groups); accent bar on top, from the same origin = now (the profile applied to its "set"
+  groups); green hatch with a bracket between the two ends = saved; amber past the grey end = added. "Keep default"
+  rows show only the grey bar and a chip. The label column reads `▼ −21%  −$127.5/day` (lead per the `% | $`
+  toggle) and `was $619 → now $492`; a dotted leader joins short bars to it. Hover: main / subagent, and for time the
+  compaction-wait vs turn-time split. A one-line legend sits above the panels; each row is also a sentence in a
+  screen-reader list ("Opus 5: was $619.3 per day, now $491.8, saves 21 percent; …").
+- Toggles (remembered): `absolute | each row = 100%` (one shared, labelled axis, or every grey bar the same length so
+  small models are readable) and `by amount saved | by % saved` for the row order.
+- The model page repeats the language in a compact pair next to the answer line: cost and time at the cursor,
+  was vs now, with the legend in its tooltip and accessible name.
 - Roll-up table: every group with its profile threshold, the default, the action and the per-day numbers
   (greyed unless the action is "set").
 - A "keep default" row carries a one-line reason from the same two tests the engine uses

diff --git a/CHANGELOG.md b/CHANGELOG.md
@@ -9,6 +9,9 @@ versioning: [SemVer](https://semver.org/).
 - `compactlab serve` is quiet: one in-place progress line only on a terminal (cut to its width at a space, so it
   never wraps into extra rows), nothing otherwise; the log says `recalibrating (reason)` and `recalibrated in Ns:
   N files, M cached, K parsed, X groups; next calibration: <time>`, and the next calibration at start.
+- **Before / after on the Overview.** Per model, a grey "was" bar (default) with the "now" bar (profile) overlaid,
+  the saving hatched green and additions amber, for cost and wall-clock per day; a total row from summed amounts;
+  `absolute | each row = 100%` and sort toggles; screen-reader sentences. The model page shows a compact pair.
 - **Percent first.** Changes lead with their percent of the harness default (cost vs the default's window cost,
   time vs its total wall-clock: the engine's `d_cost_pct` / `d_time_pct`) with the per-day amount secondary, in the
   report (header toggle `% | $`, remembered) and the lens mod (`▼−61% (−$204.8/day)`). lens.json gains `cost_pct` /
